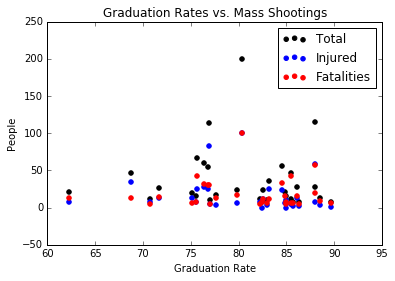
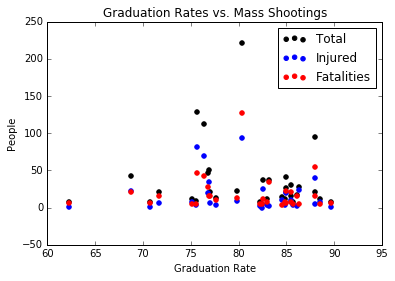
2013 vs HS Graduation
In a test between 2013 & beyond Gun Shootings vs. 2015 HS Graduation
Rates for states, there is no apparent correlation.

diff --git a/vsEducation/HSGraduation.py b/vsEducation/HSGraduation.py
@@ -17,10 +17,14 @@ hsgrad.to_pickle(root+'HSGraduation.pkl')
 hsgradsimp = pd.DataFrame(hsgrad.Value)
 print(hsgradsimp)
 
-# Loads MassShooting Data
+# Loads MassShooting Data from 2013 & beyond
 shoots = pd.read_pickle(root+'../Data_MassShooting/statsPerState.pkl')
-print(shoots)
-data = pd.concat([hsgradsimp, shoots], axis=0, join_axes=[hsgradsimp.index])
+shootsnew = shoots[shoots.Year>2012]
+shootsnew = shootsnew.groupby(shootsnew.index).sum()
+
+# Combines the shooting & hsgrad data
+data = pd.concat([hsgradsimp, shoots], axis=0)
+data = data.groupby(data.index).sum()
 
 # Plots MassShooting Data for all time
 plt.figure()
